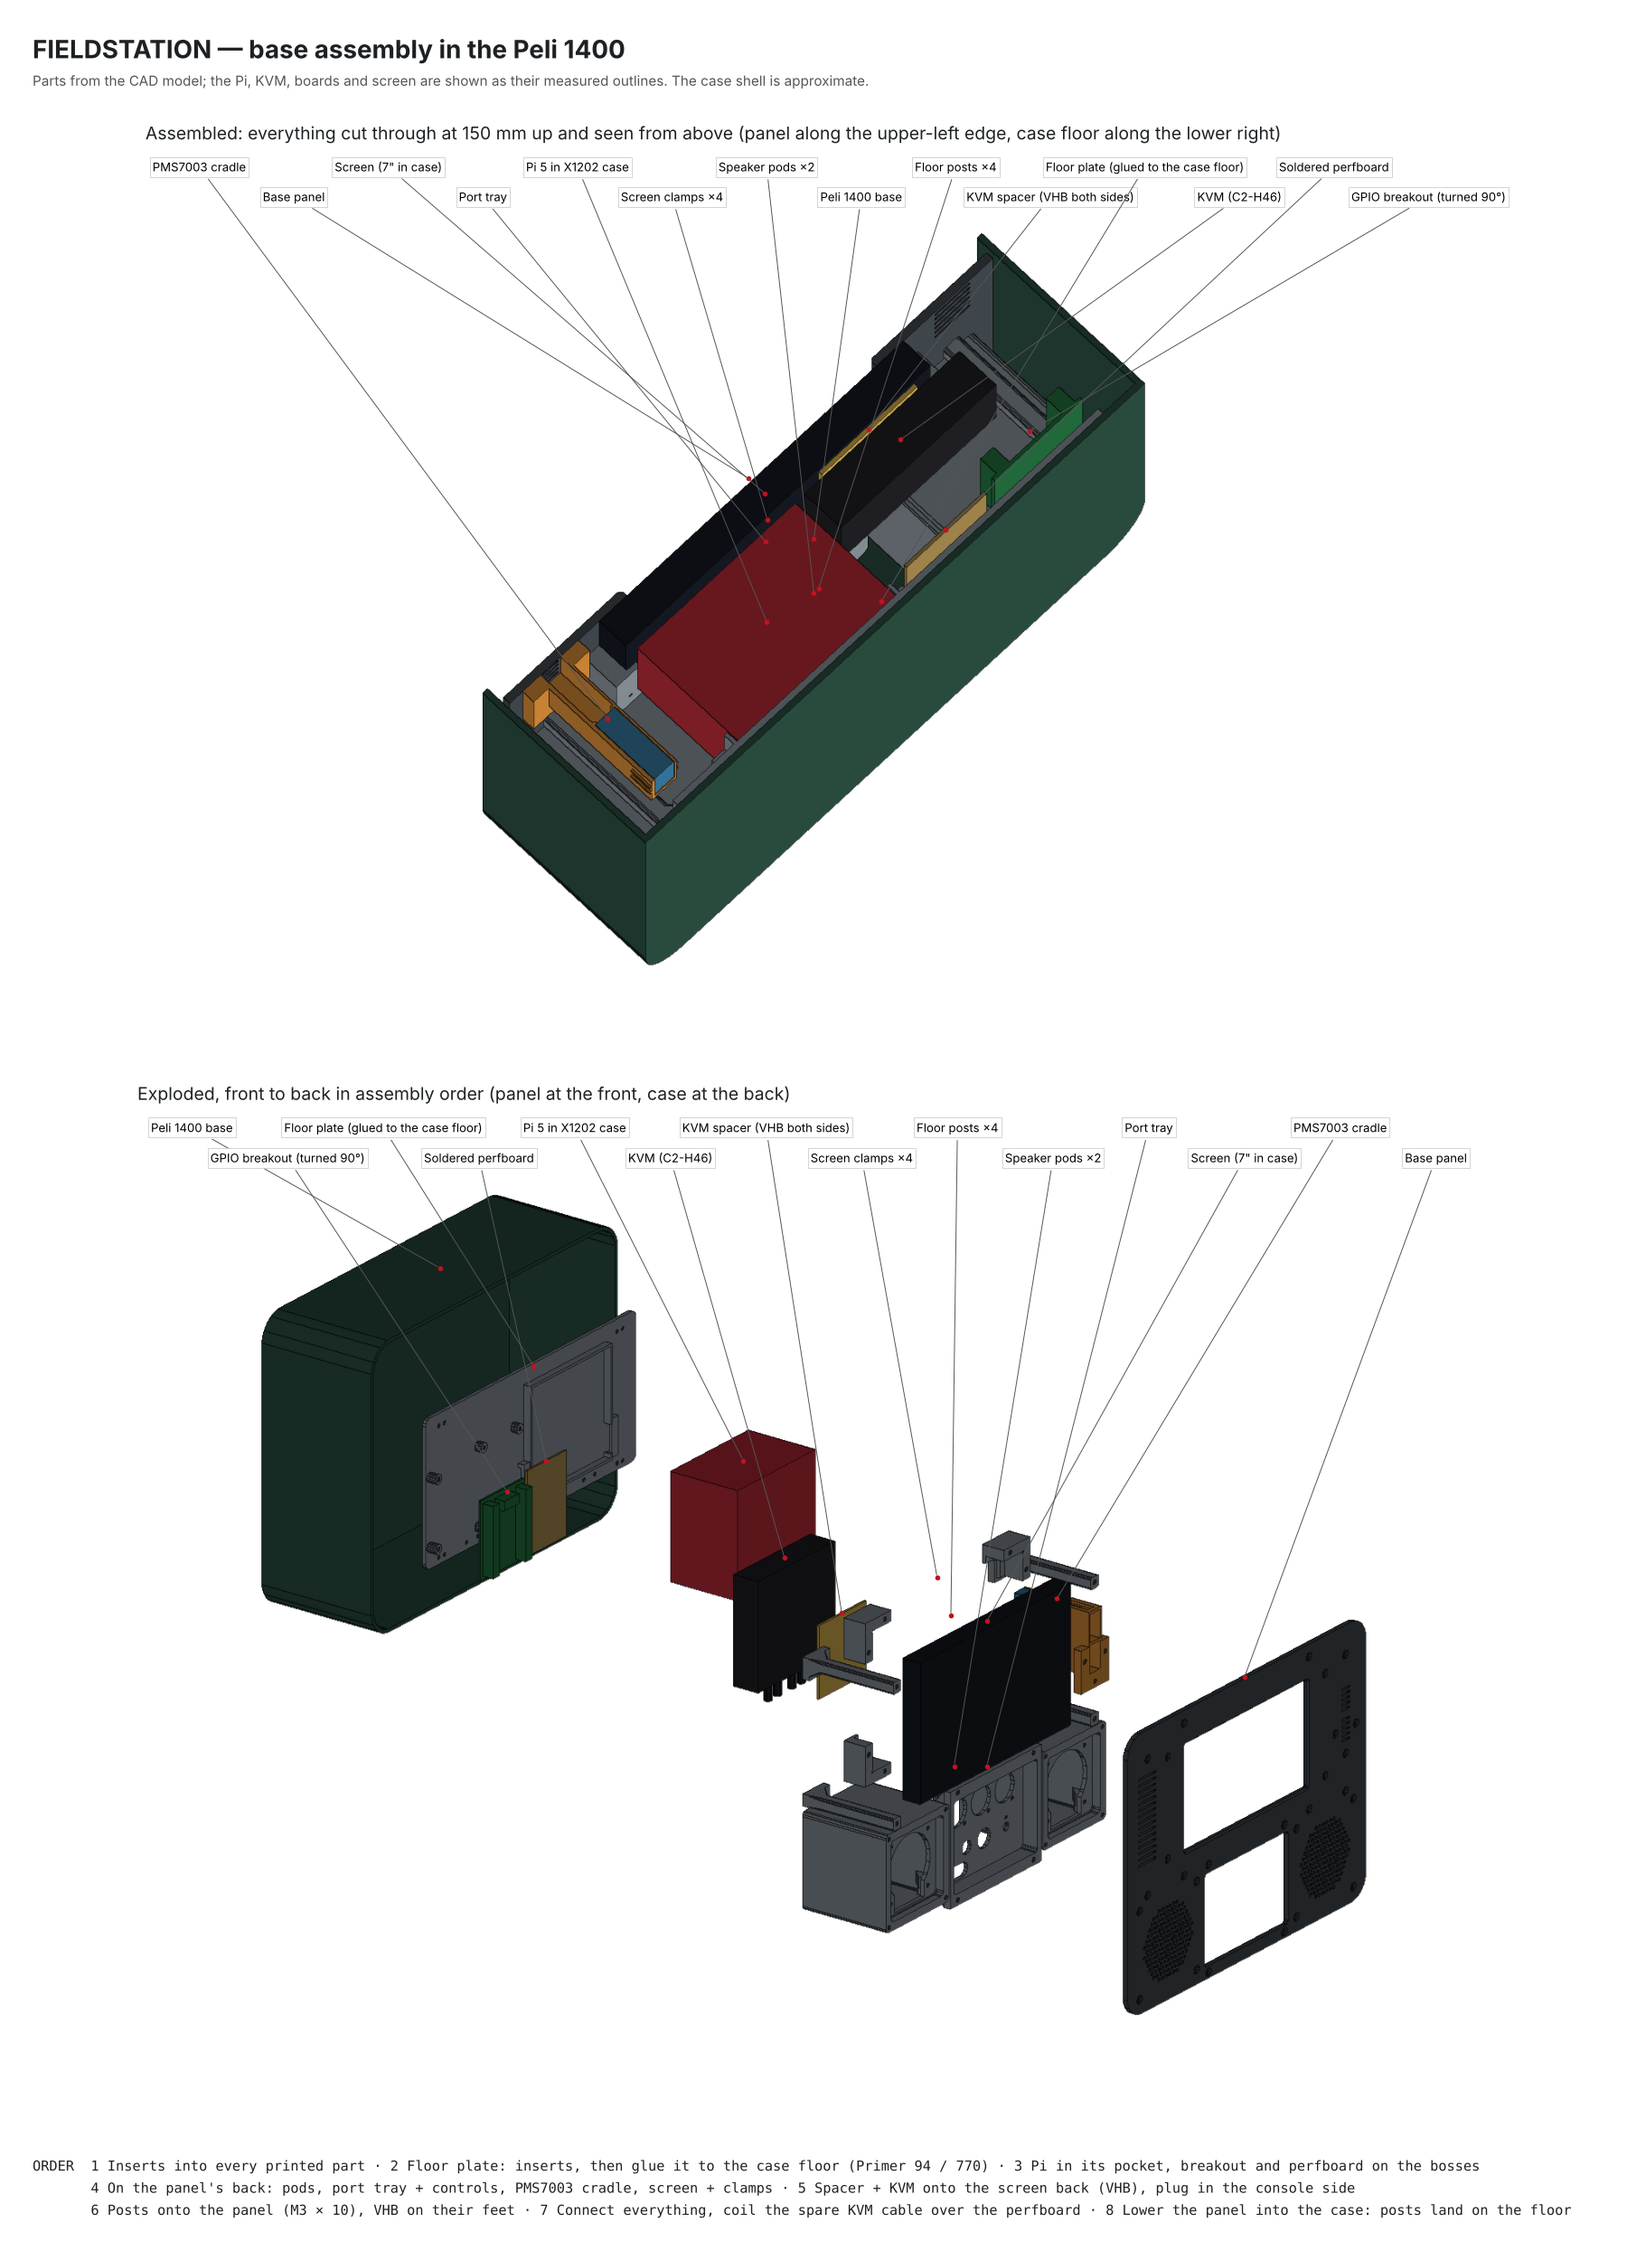
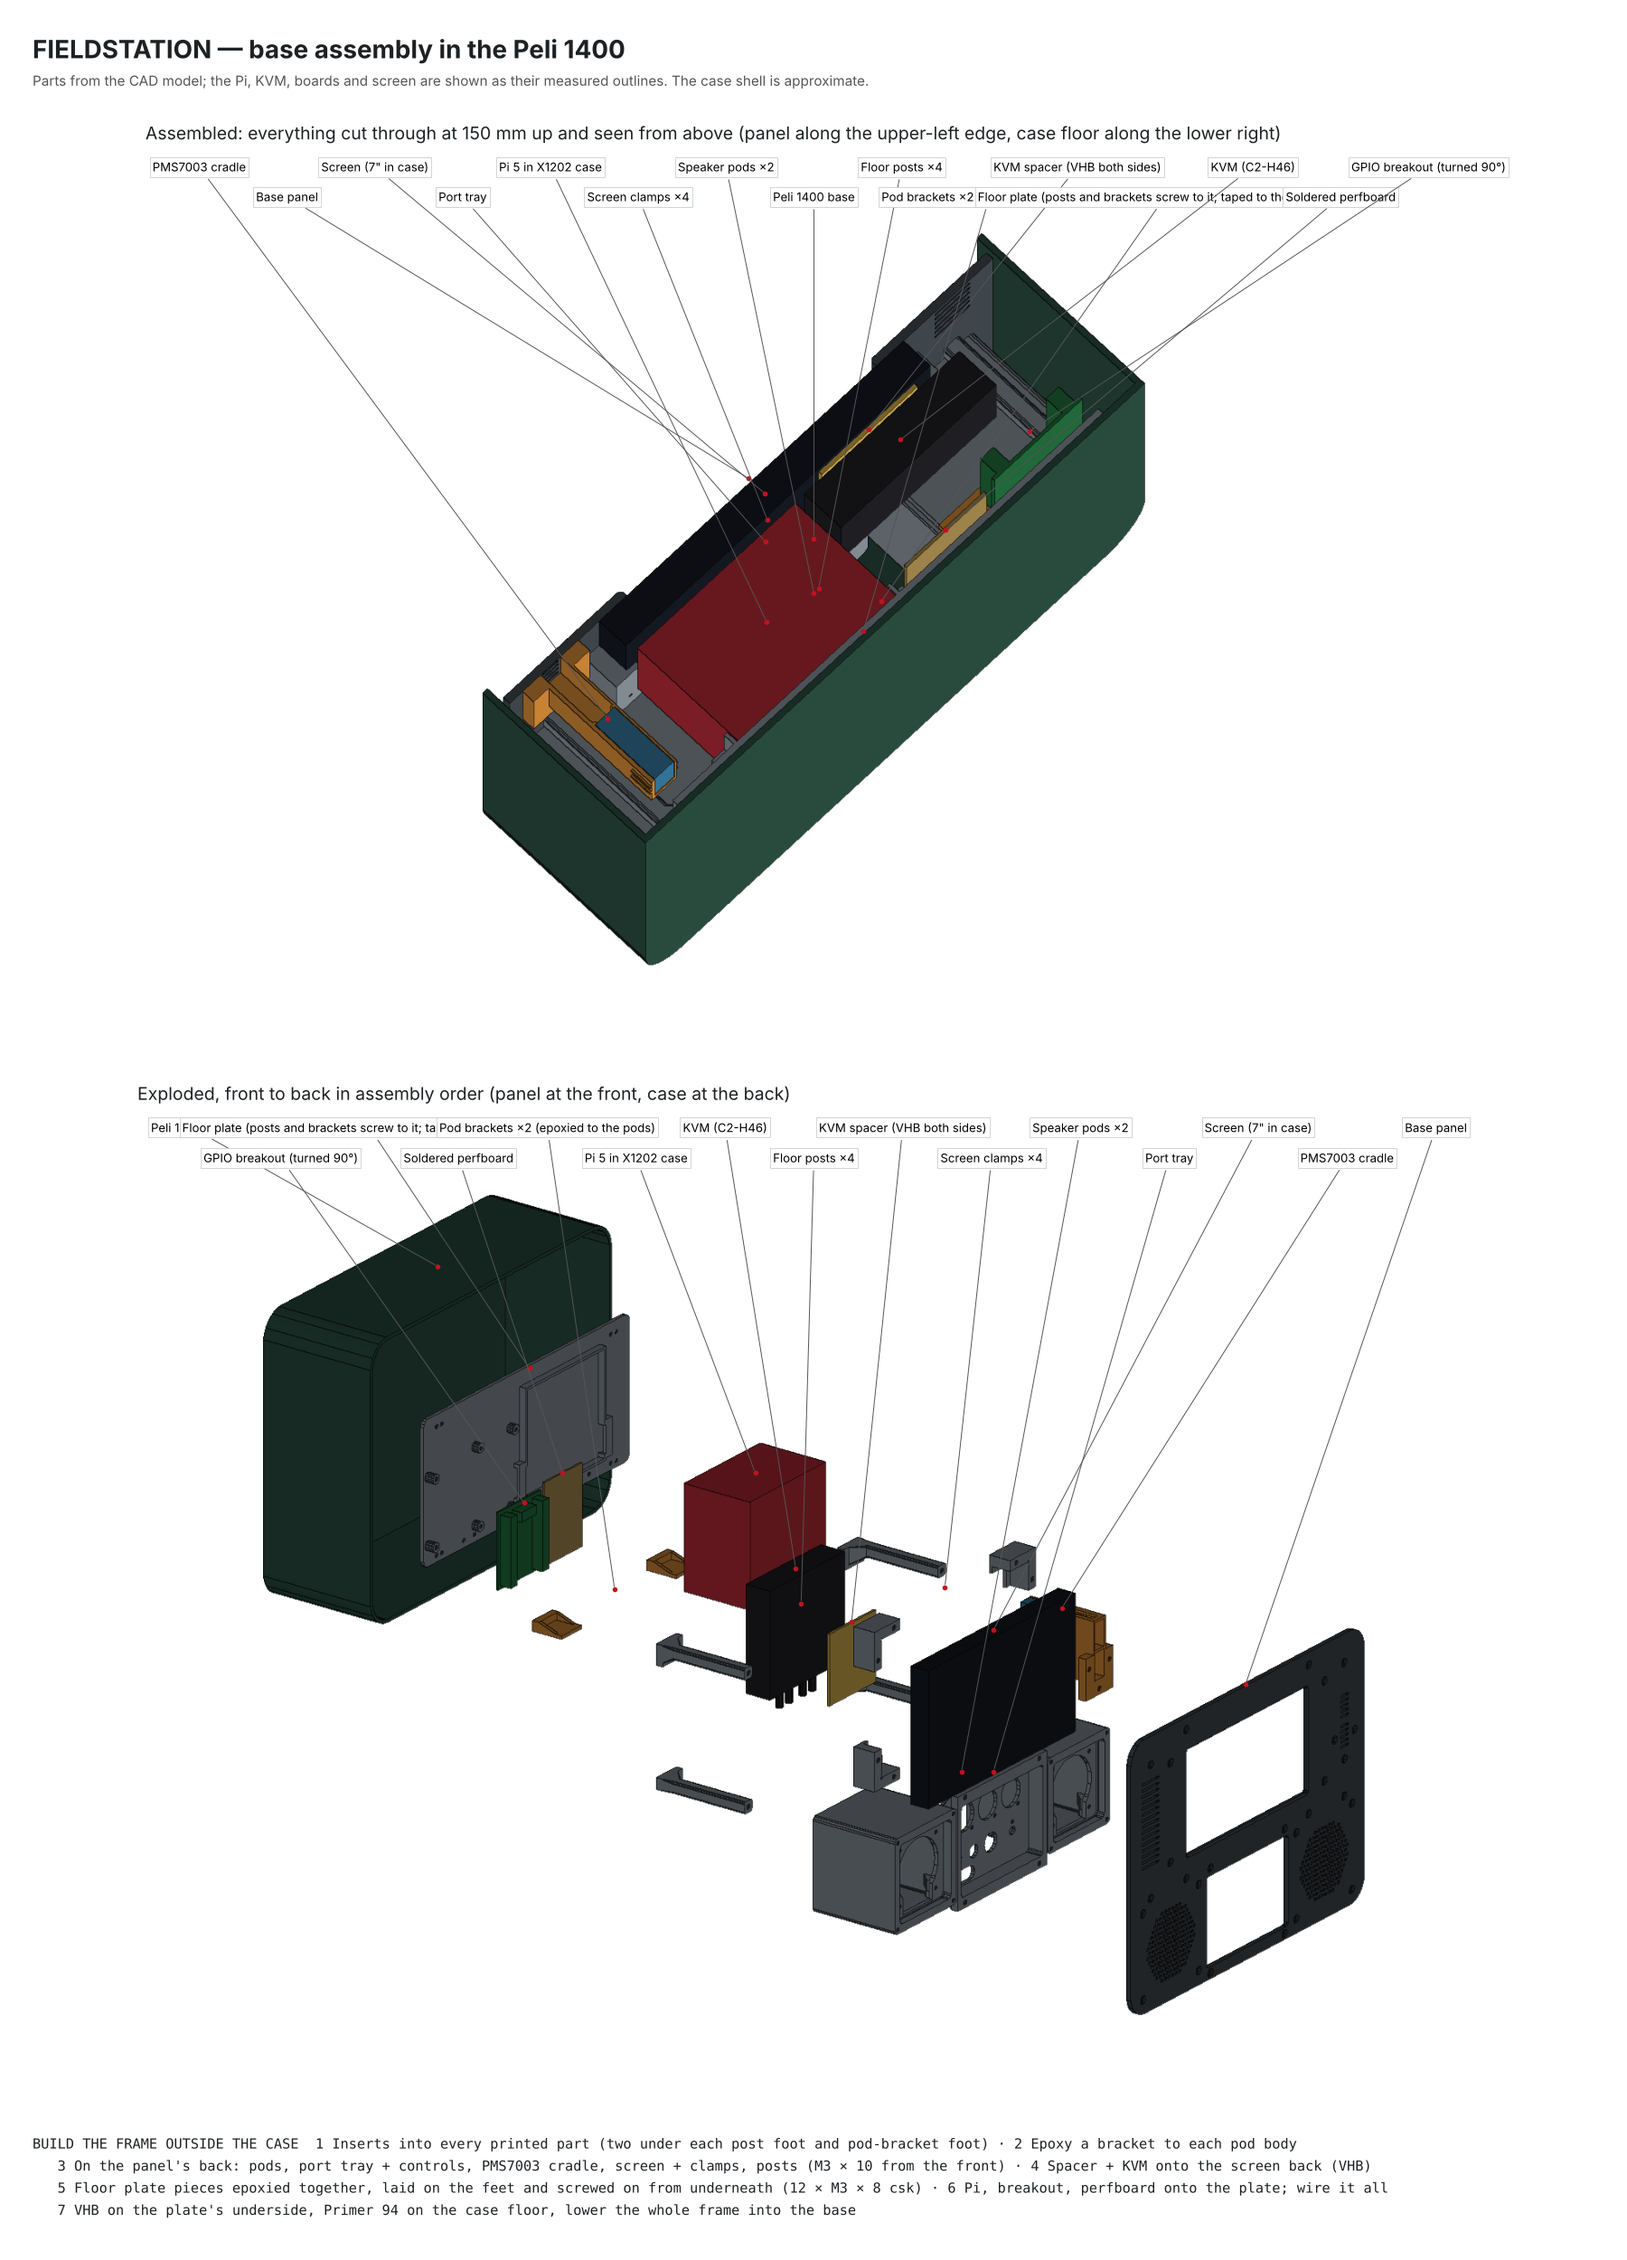
Add exploded_base.png; case render shows v2 frame and pod brackets
Claude-Session: https://claude.ai/code/session_015Mjdpdd6ef1wmGCnczCrjc

diff --git a/hardware/src/case_render.py b/hardware/src/case_render.py
@@ -51,7 +51,8 @@ brk=box(bo[0],bo[1],zb-1.6,bo[2],bo[3],zb)+box(bo[0]+3,bo[1]+3,zb-1.6-10,bo[0]+1
 parts['GPIO breakout (turned 90°)']=(brk,PCB,7)
 pbd=FP['PB']; zp=FLOOR_Z-3-FP['BOSS_H']
 parts['Soldered perfboard']=(box(pbd[0],pbd[1],zp-1.6,pbd[2],pbd[3],zp),(0.75,0.62,0.35),7)
-parts['Floor plate (glued to the case floor)']=(FP['build_floor_plate'](),PLA,8)
+parts['Pod brackets ×2 (epoxied to the pods)']=(FP['build_pod_bracket']('L')+FP['build_pod_bracket']('R'),(0.95,0.62,0.25),10)
+parts['Floor plate (posts and brackets screw to it; taped to the case floor)']=(FP['build_floor_plate'](),PLA,8)
 # Peli 1400 base shell (approximate: straight walls, rounded corners), open at the front
 IW,IH,RR,W=306.5,232.9,21.0,3.0
 def rr(w,h,r,cx,cy): return F['rrect'](w,h,r,cx,cy)
@@ -81,8 +82,8 @@ for k,(m,c,g) in parts.items():
     t=tm(mm); items.append((t,c)); b=t.bounds
     anch.append((k,[(b[0][0]+b[1][0])/2,b[1][1],(b[0][2]+b[1][2])/2]))
 view1=(0.3,1.0,0.3)
-EXP={0:-230,1:0,2:45,3:0,4:85,5:120,6:215,7:310,8:350,9:480}
-LIFT={0:0,1:0,2:15,3:0,4:30,5:45,6:70,7:95,8:105,9:140}
+EXP={0:-230,1:0,2:45,3:150,4:85,5:120,6:215,7:310,8:370,9:500,10:300}
+LIFT={0:0,1:0,2:15,3:-20,4:30,5:45,6:70,7:95,8:110,9:150,10:60}
 items2=[];anch2=[]
 for k,(m,c,g) in cache.items():
     t=m.copy(); t.apply_translation([0,LIFT[g],EXP[g]]); items2.append((t,c)); b=t.bounds
@@ -98,9 +99,10 @@ t0=time.time(); img2,proj2=render(items2,view=view2,up=(0,1,0),W=1700,H=1250,mar
 ax=fig.add_axes([0.02,0.07,0.96,0.44]); ax.imshow(img2); ax.set_axis_off()
 ax.set_title('Exploded, front to back in assembly order (panel at the front, case at the back)',fontsize=14,loc='left',color='#1d2124')
 labels_column(ax,img2,proj2,anch2,top=True)
-steps=("ORDER  1 Inserts into every printed part · 2 Floor plate: inserts, then glue it to the case floor (Primer 94 / 770) · 3 Pi in its pocket, breakout and perfboard on the bosses\n"
-       "       4 On the panel's back: pods, port tray + controls, PMS7003 cradle, screen + clamps · 5 Spacer + KVM onto the screen back (VHB), plug in the console side\n"
-       "       6 Posts onto the panel (M3 × 10), VHB on their feet · 7 Connect everything, coil the spare KVM cable over the perfboard · 8 Lower the panel into the case: posts land on the floor")
+steps=("BUILD THE FRAME OUTSIDE THE CASE  1 Inserts into every printed part (two under each post foot and pod-bracket foot) · 2 Epoxy a bracket to each pod body\n"
+       "   3 On the panel's back: pods, port tray + controls, PMS7003 cradle, screen + clamps, posts (M3 × 10 from the front) · 4 Spacer + KVM onto the screen back (VHB)\n"
+       "   5 Floor plate pieces epoxied together, laid on the feet and screwed on from underneath (12 × M3 × 8 csk) · 6 Pi, breakout, perfboard onto the plate; wire it all\n"
+       "   7 VHB on the plate's underside, Primer 94 on the case floor, lower the whole frame into the base")
 fig.text(0.02,0.02,steps,fontsize=11,family='monospace',color='#1d2124',linespacing=1.6)
 fig.text(0.02,0.985,'FIELDSTATION — base assembly in the Peli 1400',fontsize=20,fontweight='bold',color='#1d2124',va='top')
 fig.text(0.02,0.968,'Parts from the CAD model; the Pi, KVM, boards and screen are shown as their measured outlines. The case shell is approximate.',fontsize=11,color='#555',va='top')

diff --git a/hardware/src/exploded_render.py b/hardware/src/exploded_render.py
@@ -1,0 +1,37 @@
+"""Draws ../docs/exploded_base.png: one large exploded view of the base, numbered in assembly order."""
+import numpy as np, time
+exec(open('case_render.py').read().split("NOLABEL=")[0])
+ORDER=[('Base panel',-270,0,'Base panel (front face toward you)'),
+       ('Port tray',0,0,'Port tray + controls'),('Speaker pods ×2',0,0,'Speaker pods ×2 (front-mounted drivers)'),
+       ('PMS7003 cradle',0,0,'PMS7003 cradle'),('PMS7003 + adapter board',0,0,None),
+       ('Screen (7" in case)',0,10,'Screen in its case'),('Screen clamps ×4',55,20,'Screen clamps ×4'),
+       ('KVM spacer (VHB both sides)',95,35,'KVM spacer (VHB both sides)'),('KVM (C2-H46)',130,45,'KVM (stuck to the screen back)'),
+       ('Floor posts ×4',205,25,'Floor posts ×4 (M3 × 10 from the front)'),
+       ('Pod brackets ×2 (epoxied to the pods)',245,10,'Pod brackets ×2 (epoxied to the pods)'),
+       ('Pi 5 in X1202 case',300,80,'Pi 5 in X1202 case (strapped into its pocket)'),
+       ('GPIO breakout (turned 90°)',350,95,'GPIO breakout'),('Soldered perfboard',350,95,'Soldered perfboard'),
+       ('Floor plate (posts and brackets screw to it; taped to the case floor)',450,125,'Floor plate (12 × M3 × 8 csk up into the feet)'),
+       ('Peli 1400 base',660,200,'Peli 1400 base (VHB under the plate)')]
+items=[];num=[];legend=[]
+n=0
+for k,dz,dy,lab in ORDER:
+    m,c,g=cache[k]; t=m.copy(); t.apply_translation([0,dy,dz]); items.append((t,c))
+    if lab:
+        n+=1; b=t.bounds; c0=np.array([(b[0][0]+b[1][0])/2,b[1][1],(b[0][2]+b[1][2])/2]); v=t.vertices[np.argmin(((t.vertices-c0)**2).sum(1))]; num.append((n,list(v))); legend.append('%d  %s'%(n,lab))
+t0=time.time(); img,proj=render(items,view=(-0.9,0.55,-0.75),up=(0,1,0),W=2000,H=1500,margin=60,lh=True); print('render %.0fs'%(time.time()-t0))
+fig=plt.figure(figsize=(20,17),dpi=100)
+ax=fig.add_axes([0.0,0.13,1.0,0.80]); ax.imshow(img); ax.set_axis_off()
+used=[]
+for i,(k,pt) in enumerate(num):
+    q=proj(np.array(pt))[0]; tx,ty=q[0],q[1]-45
+    for ux,uy in used:
+        if abs(ux-tx)<40 and abs(uy-ty)<40: ty-=45
+    used.append((tx,ty))
+    ax.annotate(str(k),xy=q,xytext=(tx,ty),ha='center',va='center',fontsize=13,weight='bold',color='white',
+                bbox=dict(boxstyle='circle,pad=0.35',fc='#c1121f',ec='white'),arrowprops=dict(arrowstyle='-',lw=1,color='#c1121f'))
+fig.text(0.02,0.975,'FIELDSTATION base, exploded in assembly order',fontsize=22,weight='bold',va='top')
+fig.text(0.02,0.95,'Front of the panel at the right, case at the left. Build the frame (1–14) outside the case, then lower it in as one piece.',fontsize=12,color='#444',va='top')
+cols=3; per=int(np.ceil(len(legend)/cols))
+for ci in range(cols):
+    fig.text(0.03+ci*0.32,0.11,'\n'.join(legend[ci*per:(ci+1)*per]),fontsize=12,va='top',family='monospace',linespacing=1.7)
+fig.savefig('../docs/exploded_base.png',facecolor='white'); print('saved')

diff --git a/hardware/README.md b/hardware/README.md
@@ -4,7 +4,7 @@ The 3D-printed enclosure for the FieldStation cyber deck: a Peli 1400 case stand
 
 ![Assembly](docs/assembly_sheet.png)
 
-Where each part goes: [docs/placement_sheet.png](docs/placement_sheet.png). What sits behind the base panel, layer by layer: [docs/internal_layout.png](docs/internal_layout.png). The base assembled in the case and exploded in assembly order: [docs/case_assembly.png](docs/case_assembly.png). Which floor post goes where: [docs/post_guide.png](docs/post_guide.png)
+Where each part goes: [docs/placement_sheet.png](docs/placement_sheet.png). What sits behind the base panel, layer by layer: [docs/internal_layout.png](docs/internal_layout.png). The base exploded in assembly order: [docs/exploded_base.png](docs/exploded_base.png), and cut through in the case: [docs/case_assembly.png](docs/case_assembly.png). Which floor post goes where: [docs/post_guide.png](docs/post_guide.png)
 
 ## Audio wiring guide
 
@@ -106,7 +106,7 @@ python placement_sheet.py # redraws ../docs/placement_sheet.png
 | `pms7003_v2.py` | Ducted PMS7003 cradle |
 | `kickstand.py` | Slim kickstand: hinge plate with a short stop wedge, flat 22 × 5 mm leg |
 | `floorplate.py` | Floor plate glued to the case floor: Pi case pocket, perfboard and breakout bosses |
-| `placement_sheet.py`, `assembly_sheet.py`, `pms_diagram.py`, `layout_sheet.py`, `case_render.py`, `post_guide.py` | The placement, exploded-assembly, sensor-cradle and internal-layout drawings in `docs/` |
+| `placement_sheet.py`, `assembly_sheet.py`, `pms_diagram.py`, `layout_sheet.py`, `case_render.py`, `exploded_render.py`, `post_guide.py` | The placement, exploded-assembly, sensor-cradle and internal-layout drawings in `docs/` |
 
 The case interior dimensions come from measurements of the real Peli 1400: 99 mm rim to floor, a 30 mm lid, and about 306.5 × 232.9 mm inside at the rim.
 
